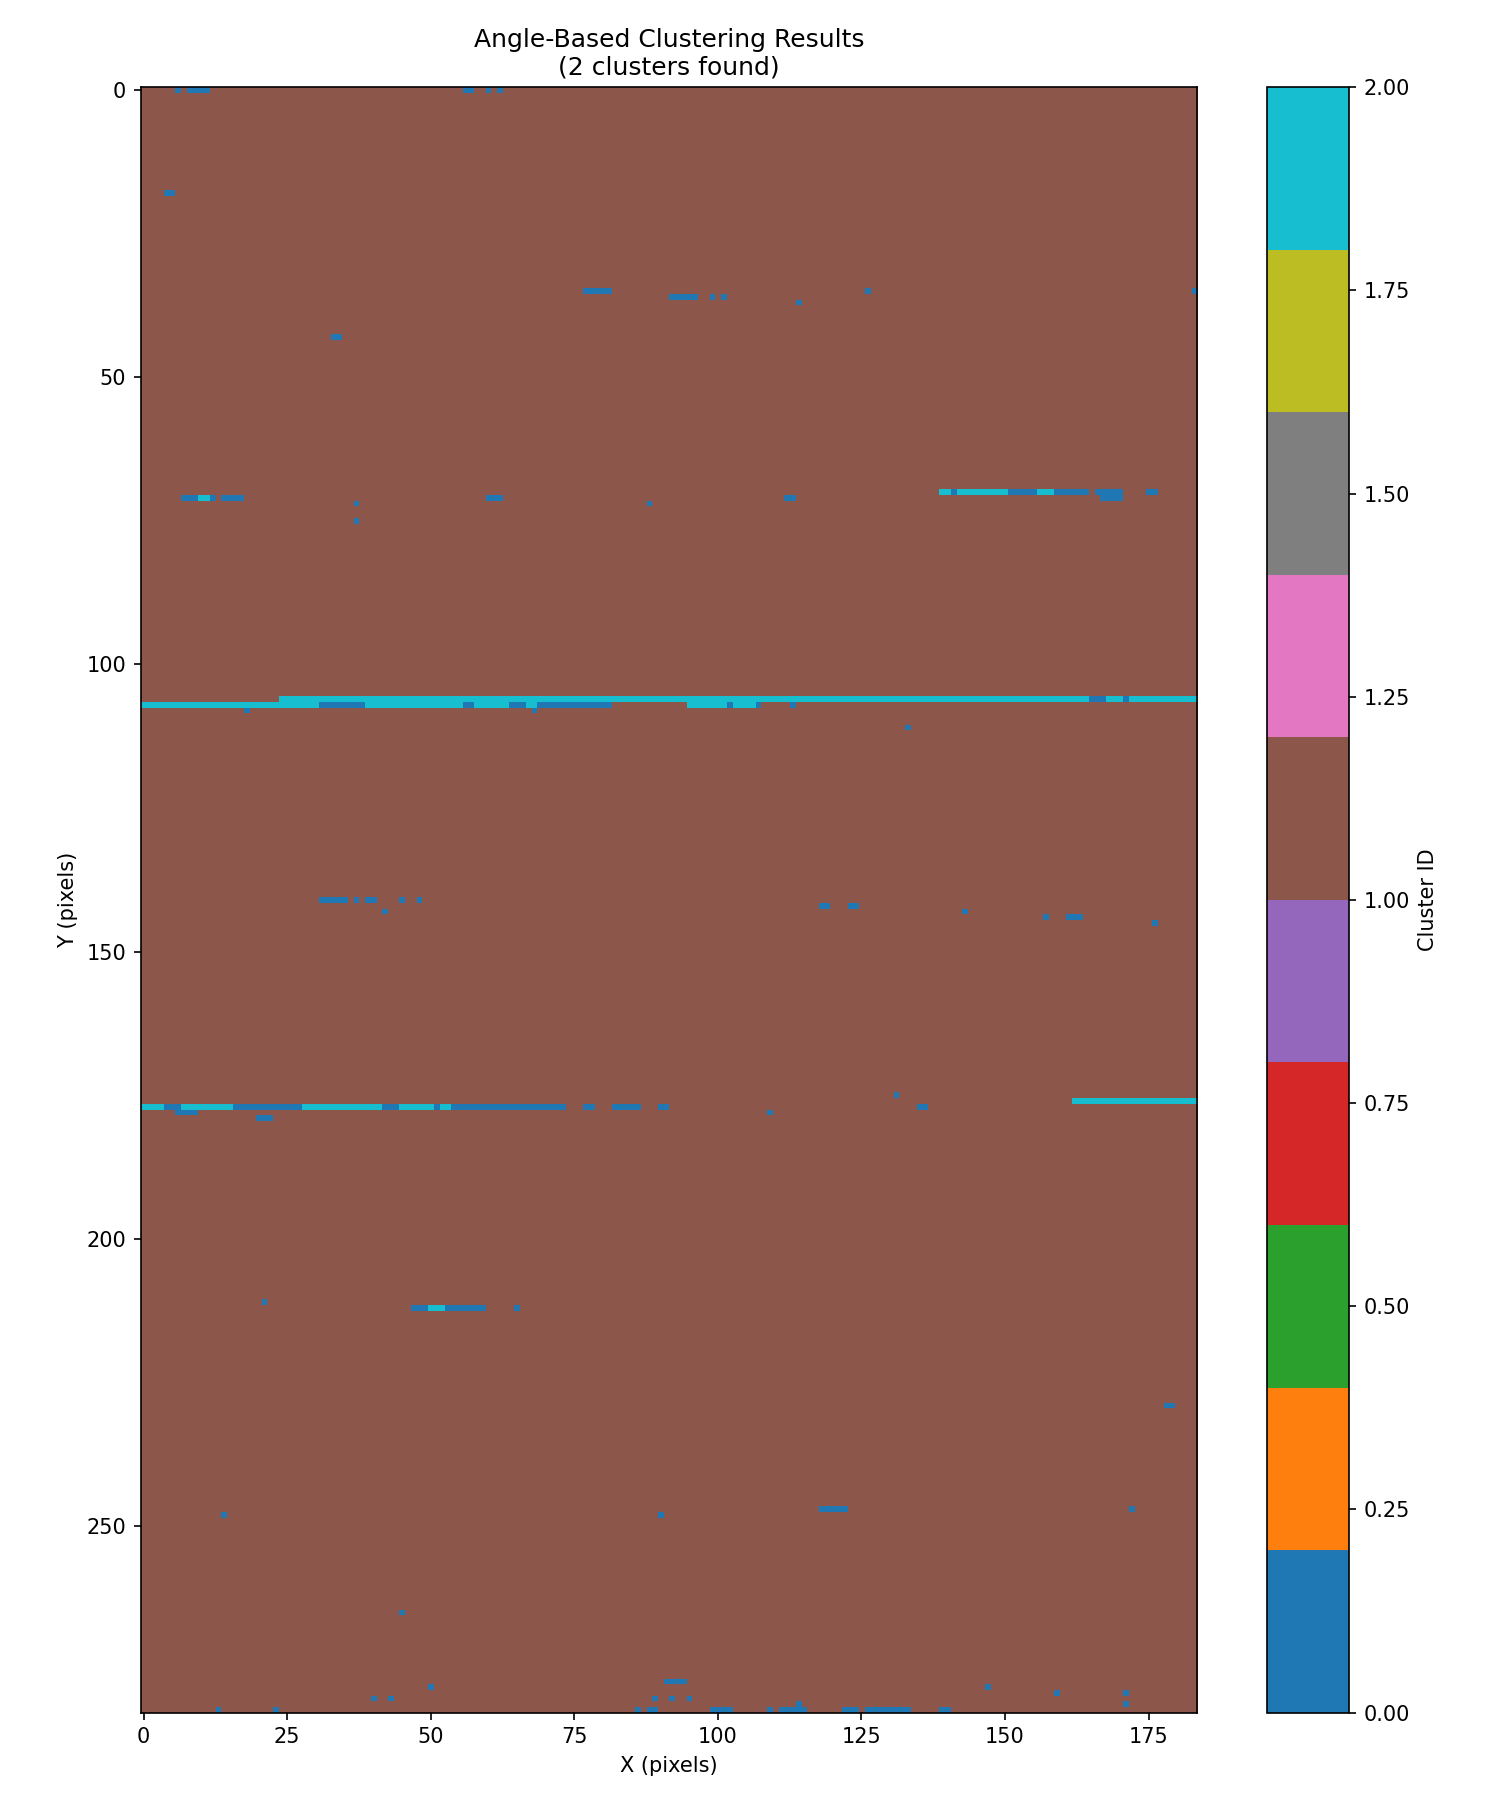
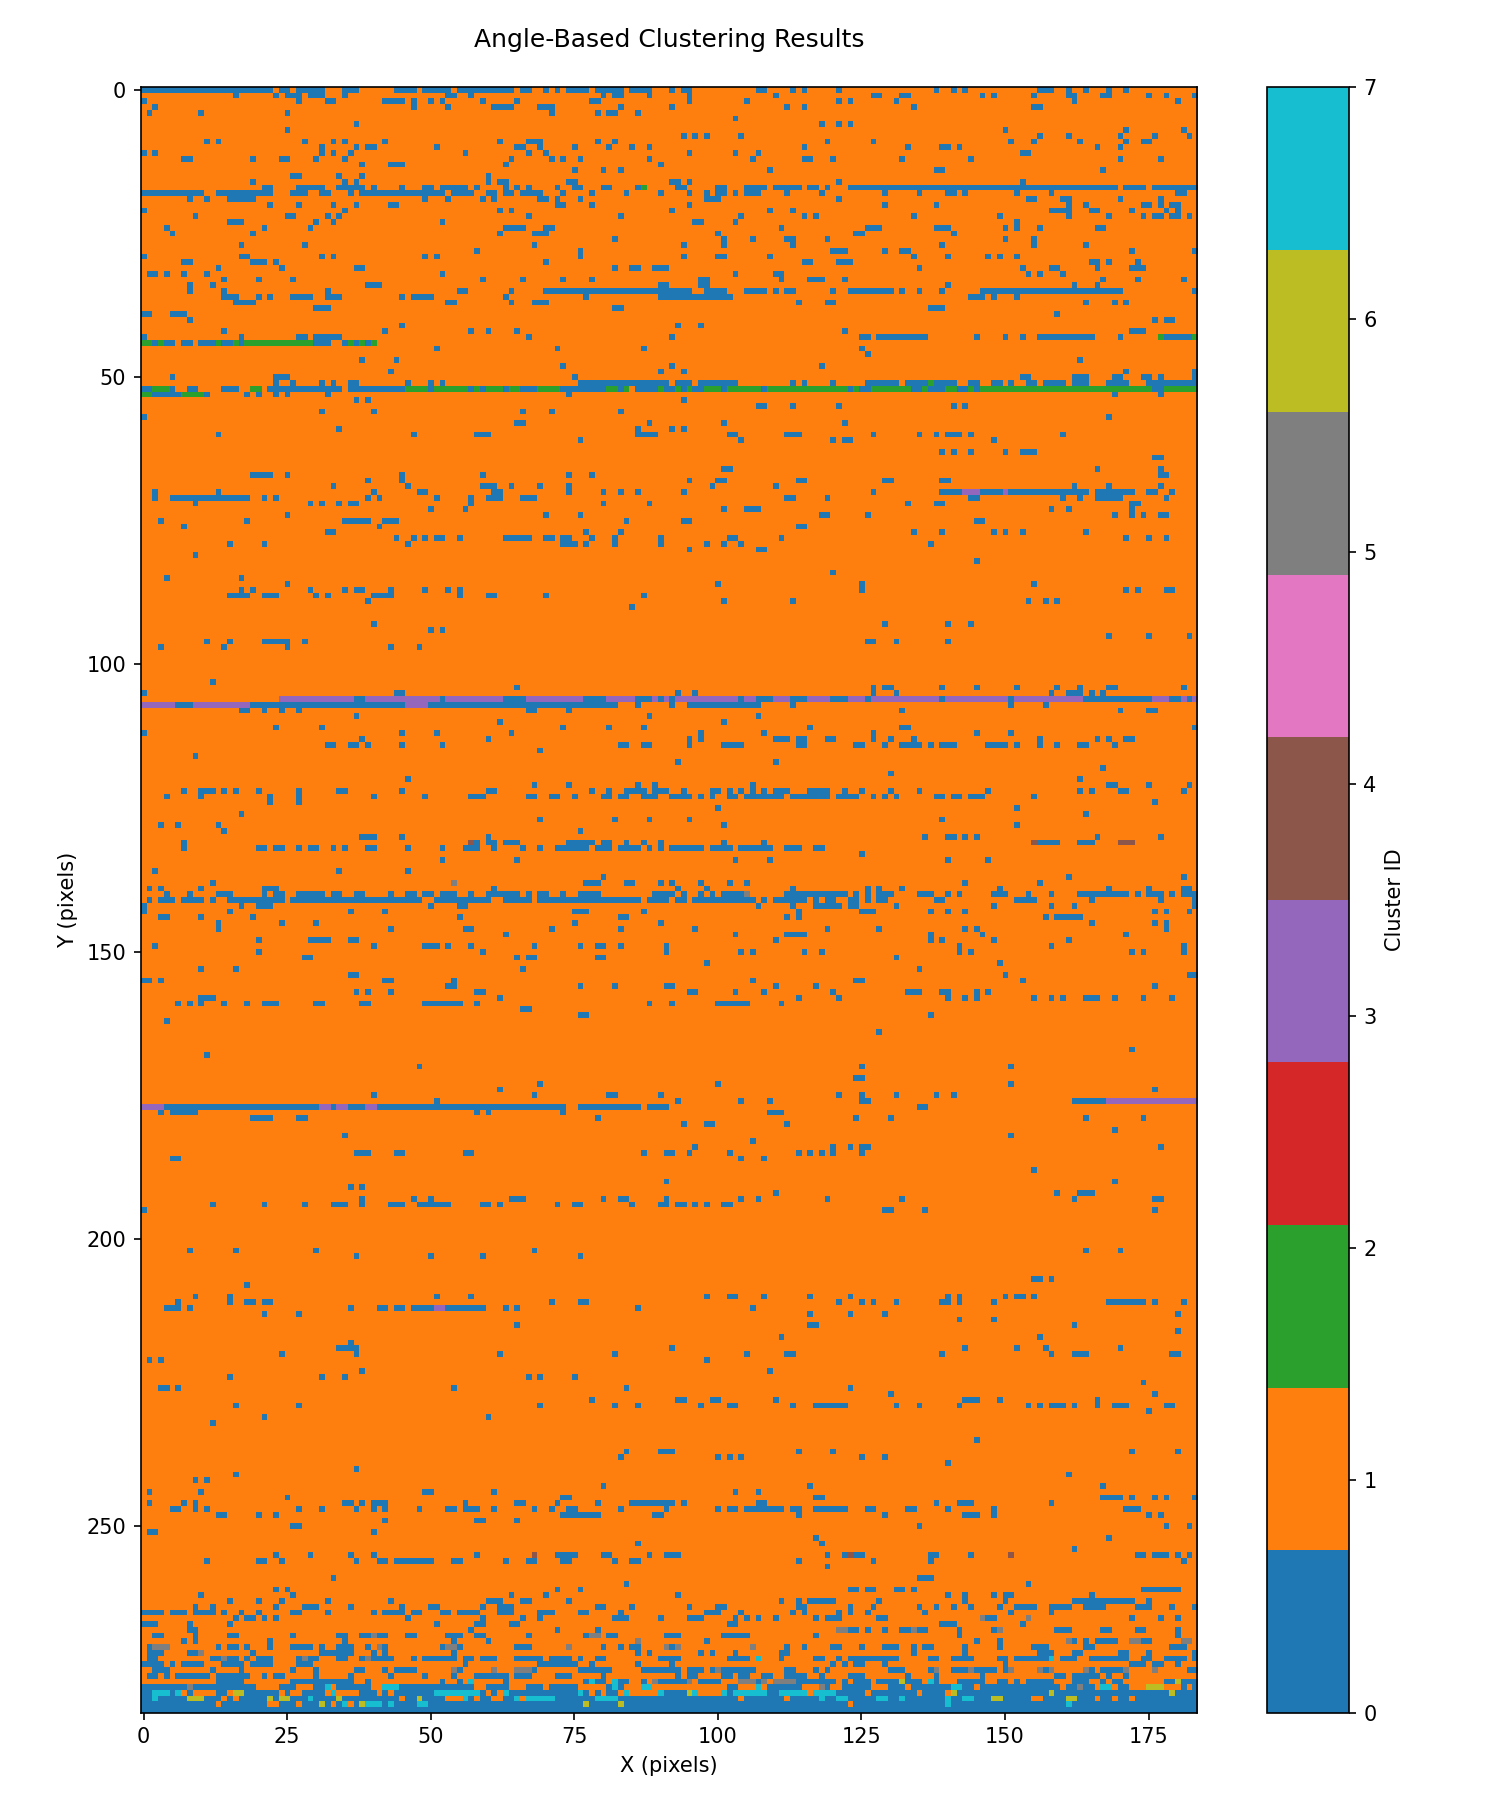
Small fixes

diff --git a/c/src/sorting.c b/c/src/sorting.c
@@ -10,8 +10,8 @@ static inline void swap(float *a, float *b) {
 }
 
 static int partition(float *a, int left, int right, int pivot) {
-    float pv = a[pivot];
-    swap(&a[pivot], &a[right]);
+    float pv = a[pivot]; // pivot value
+    swap(&a[pivot], &a[right]); // move pivot to the end
 
     int store = left;
     for (int i = left; i < right; i++)
@@ -19,12 +19,12 @@ static int partition(float *a, int left, int right, int pivot) {
             swap(&a[i], &a[store++]);
 
     swap(&a[store], &a[right]);
-    return store;
+    return store; //  final position of the pivot in the array segment
 }
 
 static void quickselect(float *a, int left, int right, int k) {
     while (left < right) {
-        int pivot = left + rand() % (right - left + 1);
+        int pivot = left + rand() % (right - left + 1); // right - left + 1 are the elements in the current subarray
         pivot = partition(a, left, right, pivot);
 
         if (k == pivot) return;
@@ -32,18 +32,25 @@ static void quickselect(float *a, int left, int right, int k) {
         else left = pivot + 1;
     }
 }
+/*
+After the first call to partition() we know that 
+a[left .. p-1] < a[p]
+a[p]           = pivot
+a[p+1 .. right] >= a[p]
+*/
+
 
 float _percentile(const point* points, size_t number_of_points, float x_percent) {
     if (number_of_points <= 0) return 0.0f;
 
-    float *points_copy = malloc(number_of_points * sizeof(float));
+    float *points_copy = malloc(number_of_points * sizeof(float)); //quickselect modifies the array in place, if we simply used points array we would lose the image structure 
     if (!points_copy) {
         fprintf(stderr, "ERROR: Failed to allocate memory for percentile calculation\n");
         exit(EXIT_FAILURE);  // Or handle differently
     }
 
     for (size_t i = 0; i < number_of_points; i++){
-        points_copy[i] = points[i].max_angle;
+        points_copy[i] = points[i].max_angle; // points_copy is like points array but only with max_angle field
     }
 
     if (x_percent <= 0.0f) {
@@ -52,7 +59,7 @@ float _percentile(const point* points, size_t number_of_points, float x_percent)
             if (points_copy[i] < min_val) min_val = points_copy[i];
         }
         free(points_copy);
-        return min_val;
+        return min_val; // the 0th percentile returns the minimum value
     }
 
     if (x_percent >= 100.0f) {
@@ -62,12 +69,12 @@ float _percentile(const point* points, size_t number_of_points, float x_percent)
             if (points_copy[i] > max_val) max_val = points_copy[i];
         }
         free(points_copy);
-        return max_val;
+        return max_val; // // the 100th percentile returns the minimum value
     }
 
-    int k = (int)(x_percent * (number_of_points - 1) / 100.0f);
+    int k = (int)(x_percent * (number_of_points - 1) / 100.0f); // target index in the sorted array corresponding to the percentile
     quickselect(points_copy, 0, number_of_points - 1, k);
     float res = points_copy[k];
     free(points_copy);
-    return res;
+    return res; // returns the value of the k-th element (so its max_angle) in an array that is sorted until position k
 }

diff --git a/c/src/knn_operations.c b/c/src/knn_operations.c
@@ -42,6 +42,7 @@ float vector_dot_product(const float* vector_1, const float* vector_2, int dims)
     return sum;
 }
 
+
 float vector_compute_angle(const float* vector_1, const float* vector_2, int dims) {
     float dot = vector_dot_product(vector_1, vector_2, dims);
     float a_magnitude = vector_magnitude(vector_1, dims);
@@ -57,6 +58,8 @@ float vector_compute_angle(const float* vector_1, const float* vector_2, int dim
     return acosf(cosine_sim);
 }
 
+
+//Compute the mean feature vector of the provided neighbors.
 void vector_mean_of_neighbors(const knn_item* neighbors , int k, int dims, float* vector_mean){
     // Mean vector initialization
     for (int d = 0; d < dims; d++) {
@@ -72,6 +75,10 @@ void vector_mean_of_neighbors(const knn_item* neighbors , int k, int dims, float
     }
 }
 
+
+ /* For a query point, find k nearest neighbors, compute the mean neighbor vector,
+ * construct mean-centered vectors and compute angles between the mean vector and each neighbor vector.
+ */
 void vector_angle_result(point* query_point, const kd_node* tree, int k, int dims, float *angles){
     
     // Searching the neighbors of the query_point
@@ -107,9 +114,13 @@ void vector_angle_result(point* query_point, const kd_node* tree, int k, int dim
     for (int i = 0; i < k; i++) {
         angles[i] = vector_compute_angle(mean_vector, neighbors_vector[i], dims);
     }
-
 }
 
+
+/*
+ * For each query point, compute the maximum angle between query_to_centroid vector
+ * and its k nearest neighbors, store it in points[i].max_angle.
+ */
 void updated_max_angles(const kd_node* tree, point* points, size_t n_points, int k, int dims){
 
     float angles[k];

diff --git a/c/src/DBSCAN.c b/c/src/DBSCAN.c
@@ -10,6 +10,10 @@
 #define NOISE     -2
 #define D 15
 
+
+/* If a = -1 copies every point that satisfies max_angle < p20 from points into border_points
+*  If a = 1 for those points with max_angle < p20 copied the label form border_points into points.labelll
+*/
 void copy_points_and_border (point* points, point* border_points, int n_points, float p20, int a){
     if(a == 1){
         int b = 0;
@@ -25,7 +29,7 @@ void copy_points_and_border (point* points, point* border_points, int n_points, 
                 border_points[b++] = points[i];
             }
         }
-    } else {printf("Parametro non corretto, copia non avvenuta");}
+    } else {printf("Wrong parameter, copy operation failed");}
 }
 
 float compute_eps(const point* border_points, size_t n_border)
@@ -55,7 +59,7 @@ int range_query(point *points, int n_points, int idx, float eps, int *neighbors)
     for (int i = 0; i < n_points; i++) {
         if (i == idx) continue;
 
-        float d = modified_distance(&points[idx], &points[i], 0.1, D); //tra 0.2 e 1
+        float d = modified_distance(&points[idx], &points[i], 0.7, D); //tra 0.2 e 1
         if (d <= eps) {
             neighbors[count++] = i;
         }

diff --git a/c/src/kd_tree.c b/c/src/kd_tree.c
@@ -133,6 +133,10 @@ static void kd_knn_search(const kd_node *node,
     }
 }
 
+
+/* Finds the k nearest neighbors of query in the kd-tree rooted at root and  
+*  writes them as knn_item structs into out
+*/
 void kd_knn(const kd_node *root, const point query, int k, knn_item *out)
 {
     int count = 0;

diff --git a/c/src/main.c b/c/src/main.c
@@ -59,7 +59,7 @@ int main(int argc, char *argv[]) {
     updated_max_angles(tree, points, n_points, k, D); // (3/10)
     
     //Find the 30% barrier for border point threshold
-    float p20 = _percentile(points, n_points, 30.0f);
+    float p20 = _percentile(points, n_points, 20.0f);
     printf("(4/11) Border points percentile found\n");
     fflush(stdout);
     
@@ -85,7 +85,7 @@ int main(int argc, char *argv[]) {
     compute_all_directions(points, n_points, tree, k, D);
 
     //Assign border points a label
-    dbscan(border_points, n_border_points, 10*eps, 6);
+    dbscan(border_points, n_border_points, 5 * eps, 5);
     printf("(7/11) Dbscan completed\n");
     fflush(stdout);
 